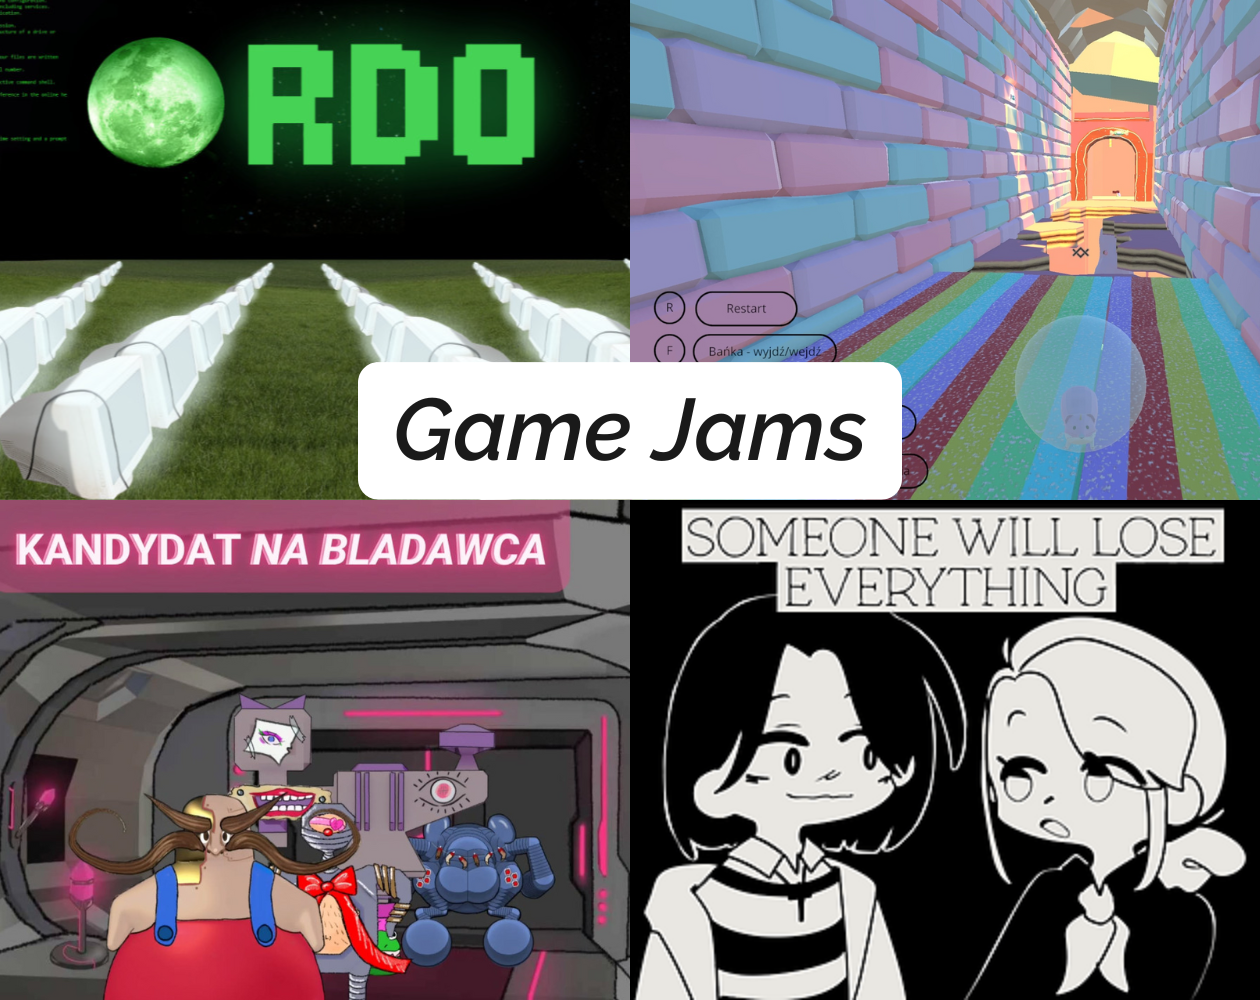
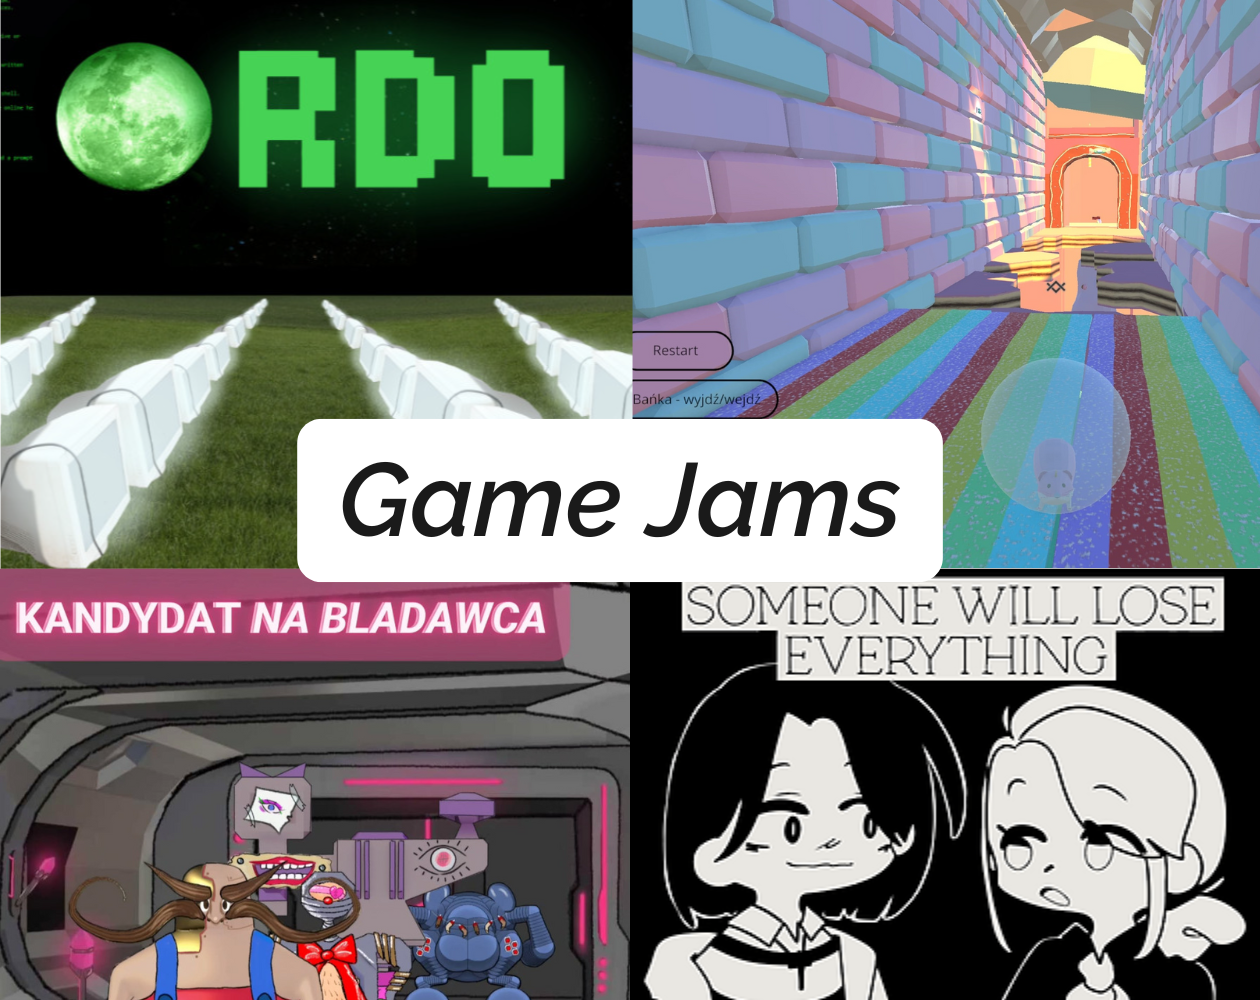
up

diff --git a/B. Orlińska - portfolio/portfolio-html-main/portfolio-html-main/src/assets/project/derek.html b/B. Orlińska - portfolio/portfolio-html-main/portfolio-html-main/src/assets/project/derek.html
@@ -92,6 +92,7 @@
         </div>
       </section>
       <section>
+        <div class="pig-container">
         <div class="background">
             <div class="frame">
                 <iframe width="250" height="250" src="https://www.youtube.com/embed/7VmrFEFjLVQ?si=yEdMaNjAgwa-F0YI" title="YouTube video player" frameborder="0" allow="accelerometer; autoplay; clipboard-write; encrypted-media; gyroscope; picture-in-picture; web-share" referrerpolicy="strict-origin-when-cross-origin" allowfullscreen></iframe>
@@ -107,6 +108,7 @@
                 <li>Designing multiple puzzle levels in Tiled, while keeping in mind <br> the desired difficulty <br><a href="https://soundcloud.com/lazycoastgames">(https://soundcloud.com/lazycoastgames)</a></li>
             </ul>
         </div>
+        </div>
       </section>
       <div class="sample-container">
         <div class="sample">
@@ -114,6 +116,7 @@
         </div>
     </div>
       <section>
+        <div class="pig-container">
         <div class="background-2">
             <div class="frame">
                 <iframe width="250" height="250" src="https://www.youtube.com/embed/hMhh7EiOHNQ" title="DEREK (2022) Level 6 - ,,There is no life in the void&quot; playthrough" frameborder="0" allow="accelerometer; autoplay; clipboard-write; encrypted-media; gyroscope; picture-in-picture; web-share" referrerpolicy="strict-origin-when-cross-origin" allowfullscreen></iframe>
@@ -132,9 +135,11 @@
                 The level is 6/26 which makes it one of the "onboarding" levels. The map isn't bigger than the viewport, which makes the level easy to navigate and analyze. In order to solve the level, the player needs to collect the key located in the bottom right corner of the level. The player is learning how to move boxes in order to complete the level. DEREK is a game that provides space for speedrunning and because of that you can also complete the level without moving the box - instead you can sprint in and out for the key without being caught by "the void".
 </p>    
             </div>
+            </div>
       </section>
 
       <section>
+        <div class="pig-container">
         <div class="background-3">
             <div class="frame">
                 <iframe width="250" height="250" src="https://www.youtube.com/embed/oMFO3oq6CgQ" title="DEREK (2022) - Level 18  - &quot;Oh it&#39;s useless&quot;" frameborder="0" allow="accelerometer; autoplay; clipboard-write; encrypted-media; gyroscope; picture-in-picture; web-share" referrerpolicy="strict-origin-when-cross-origin" allowfullscreen></iframe>
@@ -153,10 +158,12 @@
                 <p>
                     This level is approximately in the middle of the game. The player has just been introduced to new opponents and gameplay mechanics such as the skulls, bubbles and mirrors which are all used together on the level. This level is medium difficulty - the tense music and the skull following the player at the beginning build the feeling of urgency. The level is not that difficult to pass as you are able to foresee most events but it's harder to master it because of the size of the level and the amount of elements. Some of them are there only to mislead the player (the vases and the second lock that doesn't have a key) - "Oh, it's useless".
                 </p></div>
+                </div>
       </section>
       
 
       <section>
+        <div class="pig-container">
         <div class="background-4">
             <div class="frame">
                 <iframe width="250" height="250" src="https://www.youtube.com/embed/hMhh7EiOHNQ" title="DEREK (2022) Level 6 - ,,There is no life in the void&quot; playthrough" frameborder="0" allow="accelerometer; autoplay; clipboard-write; encrypted-media; gyroscope; picture-in-picture; web-share" referrerpolicy="strict-origin-when-cross-origin" allowfullscreen></iframe>
@@ -176,6 +183,7 @@
             <p>
                 Closer to the end of the game we have introduced one last mechanic: double Dereks. This level is penultimate which means that the player already has completed a few "double" levels. Level 26 requires incredible focus to complete it - there are a lot of places that need thinking through/calculating or waiting out.
 </p>    
+            </div>
             </div>
       </section>
       

diff --git a/B. Orlińska - portfolio/portfolio-html-main/portfolio-html-main/src/css/utilities.css b/B. Orlińska - portfolio/portfolio-html-main/portfolio-html-main/src/css/utilities.css
@@ -117,7 +117,7 @@ h2::selection {
 
 
 .card:hover {
-  box-shadow: inset 10px 100px 10px 1000px rgba(255, 255, 255, 0.8);
+  box-shadow: inset 10px 100px 10px 1000px rgba(0, 0, 0, 0.151);
 }
 
 .card:hover .project-info {
@@ -130,25 +130,40 @@ h2::selection {
 .card:nth-child(1)  {
   background: url(../assets/Medieval\ Town.png) center center/cover;
 }
+.card:nth-child(1):hover  {
+  background: url(../assets/2.png) center center/cover;
+}
 
 /* Project 2 */
 .card:nth-child(2)  {
   background: url(../assets/cosmic.png) center center/cover;
+}
+.card:nth-child(2):hover  {
+  background: url(../assets/8.png) center center/cover;
 }
 
 /* Project 3 */
 .card:nth-child(3) {
   background: url(../assets/gamejams.png) center center/cover;
 }
+.card:nth-child(3):hover {
+  background: url(../assets/4.png) center center/cover;
+}
 
 /* Project 4 */
 .card:nth-child(4)  {
   background: url(../assets/derek.png) center center/cover;
 }
+.card:nth-child(4):hover  {
+  background: url(../assets/7.png) center center/cover;
+}
 
 /* Project 5 */
 .card:nth-child(5)  {
   background: url(../assets/pyxis.png) center center/cover;
+}
+.card:nth-child(5):hover  {
+  background: url(../assets/6.png) center center/cover;
 }
 
 

diff --git a/B. Orlińska - portfolio/portfolio-html-main/portfolio-html-main/src/assets/project/derek.css b/B. Orlińska - portfolio/portfolio-html-main/portfolio-html-main/src/assets/project/derek.css
@@ -2,6 +2,8 @@
     display: flex;
     flex-direction: row;
     margin-top: 8rem;
+    
+    
 }
 
 .text {
@@ -192,9 +194,10 @@
     width: 400px;
     height: 250px;
     display: flex;
-    justify-content: justify;
+    justify-content: center;
+    justify-items: center;
     position: absolute;
-    left: 22%;
+    left: 20rem;
     transform: translateX(-50%);
     top: 66rem; 
     z-index: 1;
